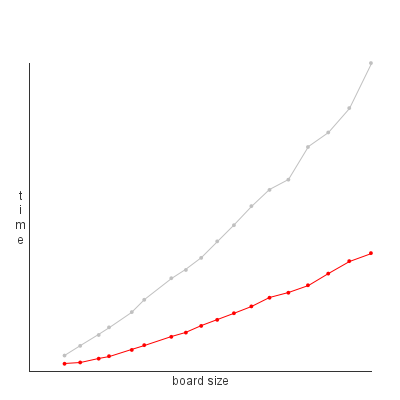
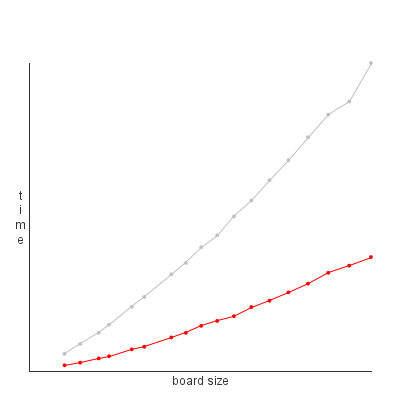
flood and flood1 implementations

diff --git a/src/Flood.java b/src/Flood.java
@@ -5,9 +5,9 @@ import java.util.*;
 
 
 public class Flood {
+    public static void flood1(WaterColor color, LinkedList<Coord> flooded_list, Tile[][] tiles, Integer board_size) {
+        //O(n) time complexity
 
-    // Students implement this flood function.
-    public static void flood(WaterColor color, LinkedList<Coord> flooded_list, Tile[][] tiles, Integer board_size) {
         LinkedList<Coord> queue = new LinkedList<>();
         boolean[][] visited = new boolean[board_size][board_size];
 
@@ -29,8 +29,9 @@ public class Flood {
         }
     }
 
-    // An alternative implementation goes here.
-    public static void flood1(WaterColor color, LinkedList<Coord> flooded_list, Tile[][] tiles, Integer board_size) {
+    public static void flood(WaterColor color, LinkedList<Coord> flooded_list, Tile[][] tiles, Integer board_size) {
+        //O(n) time complexity
+
         boolean[][] visited = new boolean[board_size][board_size];
 
         for (Coord coord : flooded_list) {

diff --git a/README.md b/README.md
@@ -1,10 +1,17 @@
-FloodIt!
+Flood It!
 By: Nandha Gopikannan and Chris Haleas
 
 Questions:
 
 1. What function roughly fits that graph?
-The function that fits the graph is f(n) = n^2. Despite there being some inconsistencies, the graph largely aligns with f(n) = n^2.
+The function that fits the graph is f(n) = n. Despite there being some inconsistencies, the graph largely aligns with f(n) = n.
 
 2. What is the time complexity of your flood() function based on analyzing its code?
+   Based on analyzing our flood() code, the time complexity is O(n). The first step was initializing the linked list and the array. The initialization of the linked list was O(1), but the array was O(n) as the program had to run through the board's values to get the array size. The next step is a for loop that initializes coordinates to the linked list. The for loop linearly iterated through flooded_list, which would have an O(n) time complexity. The next step is the while loop that runs until the linked list is empty. In this while loop, the first element of the queue is removed, which is an O(1) time complexity. Then, there is a for loop that loops through the tile coordinates to see if they have been visited. If they have not, they are flooded and marked as visited, and the neighbor coordinates are added to flooded_list and queue. This has an O(1) time complexity because there is always a constant number of neighbors to any given coordinate. The worst time complexity among all of the code's pieces is O(n), therefore this is the overall time complexity. This is a linear function, making it f(n) = n.
+3. Does your analysis match up with what you see in the graph?
+The analysis does match with the graph, as the graph shows a linear function -> f(n) = n. The time complexity concluded from our analysis is O(n), which is a linear function.
+4. What data structures did you use (linked lists, arrays…) ? Is the time complexity of your flood function the best it can be or can you do better? Why?
+We used arrays and linked lists to reach our optimal time complexity of O(n). We don't believe it can be improved beyond O(n) due to the constraints of a linked list, but we can try to create a more optimal O(n) function by using arrays and linked lists and separating the search through x and y coordinates. 
+5. What is the time complexity of your alternative implementation? Comment the function with its time complexity in your code and write down the time complexity in your write-up.
+The time complexity of our alternative implementation is also O(n), but it is a more optimal O(n) with a smaller rate of change. 
 
